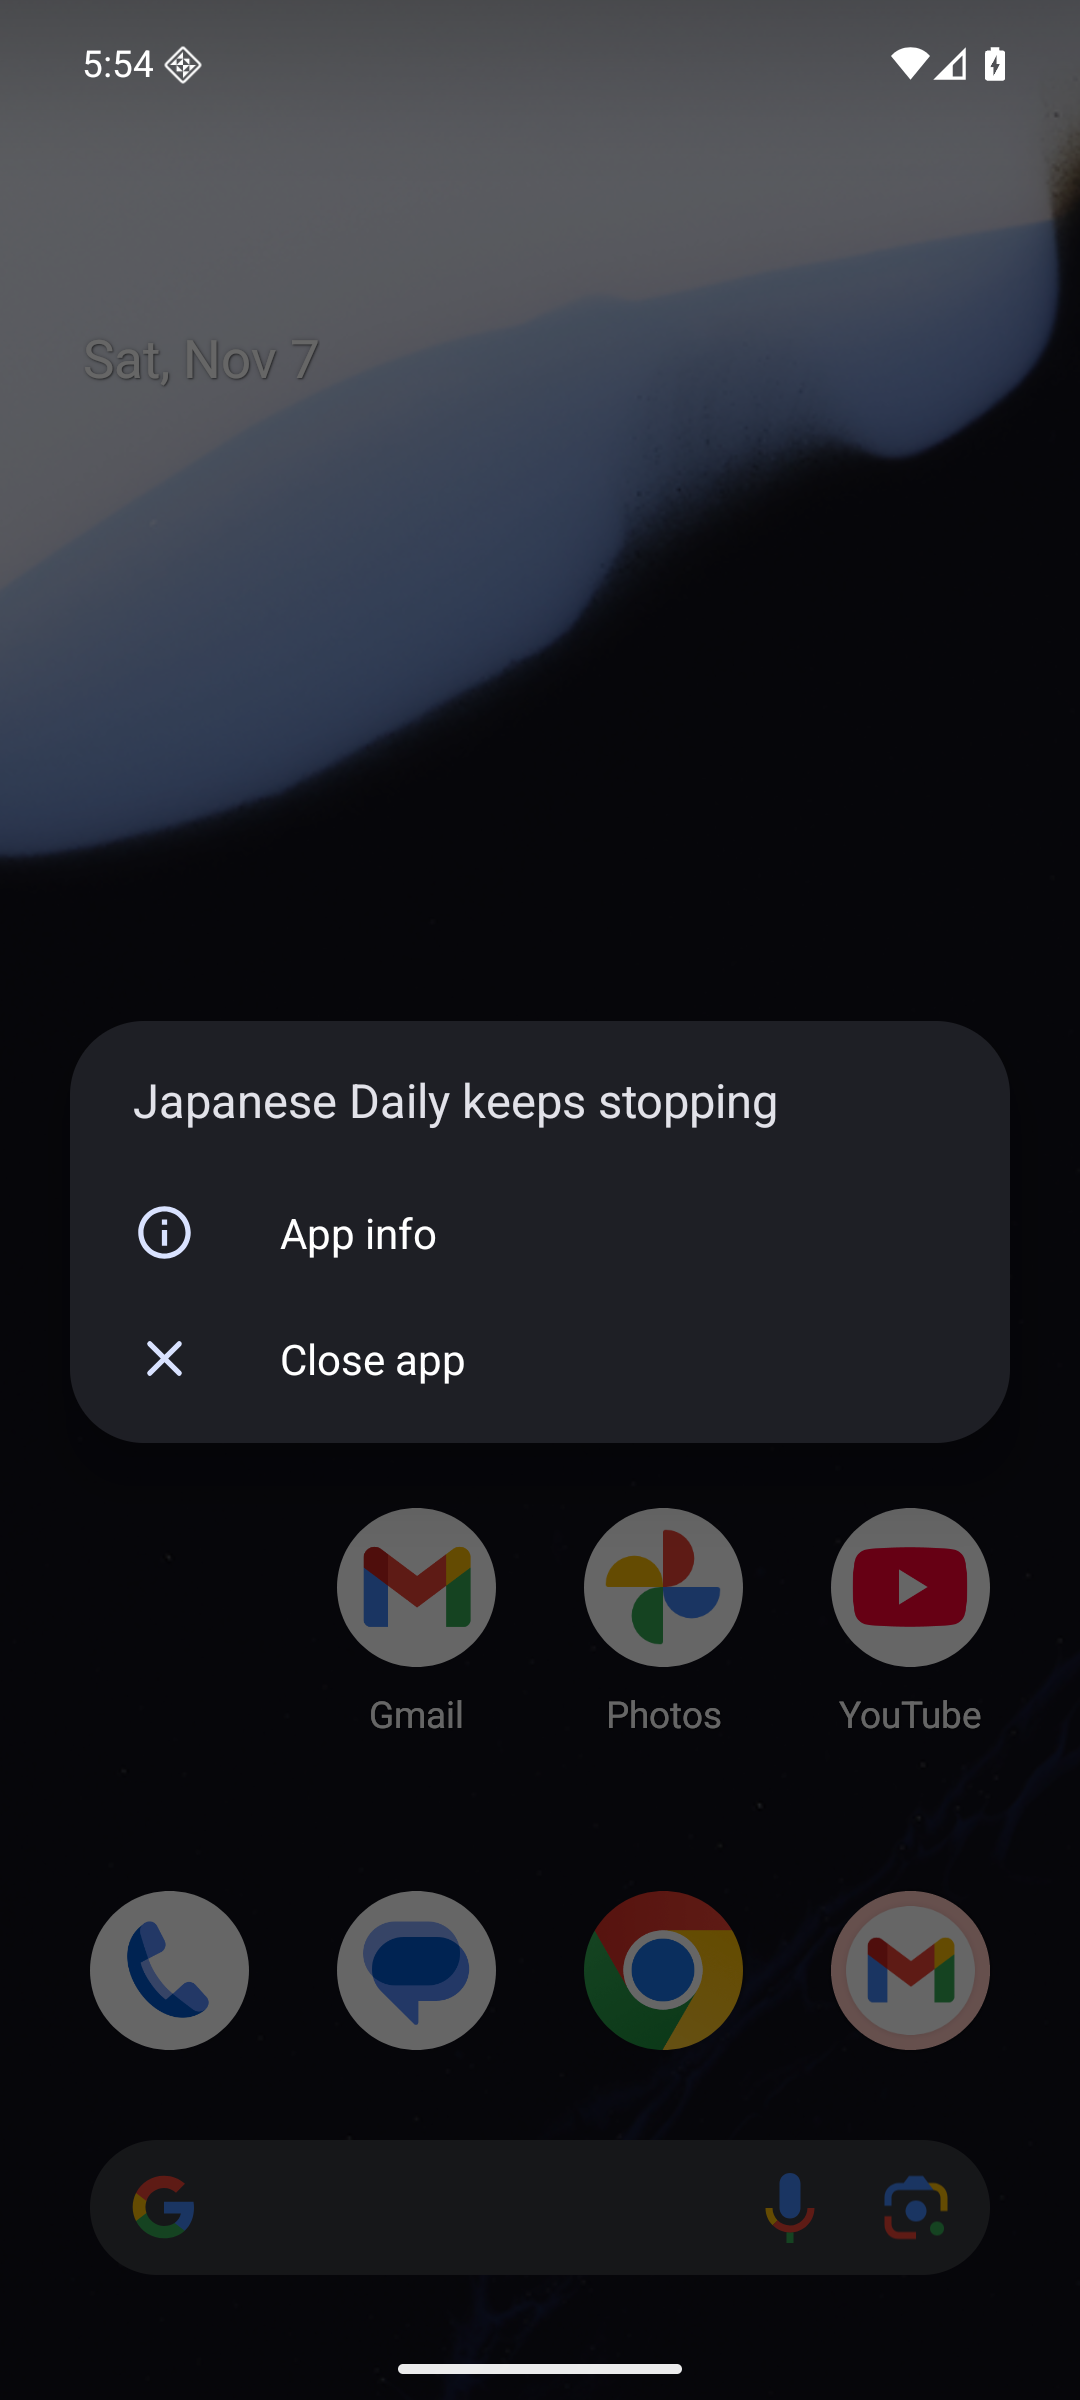
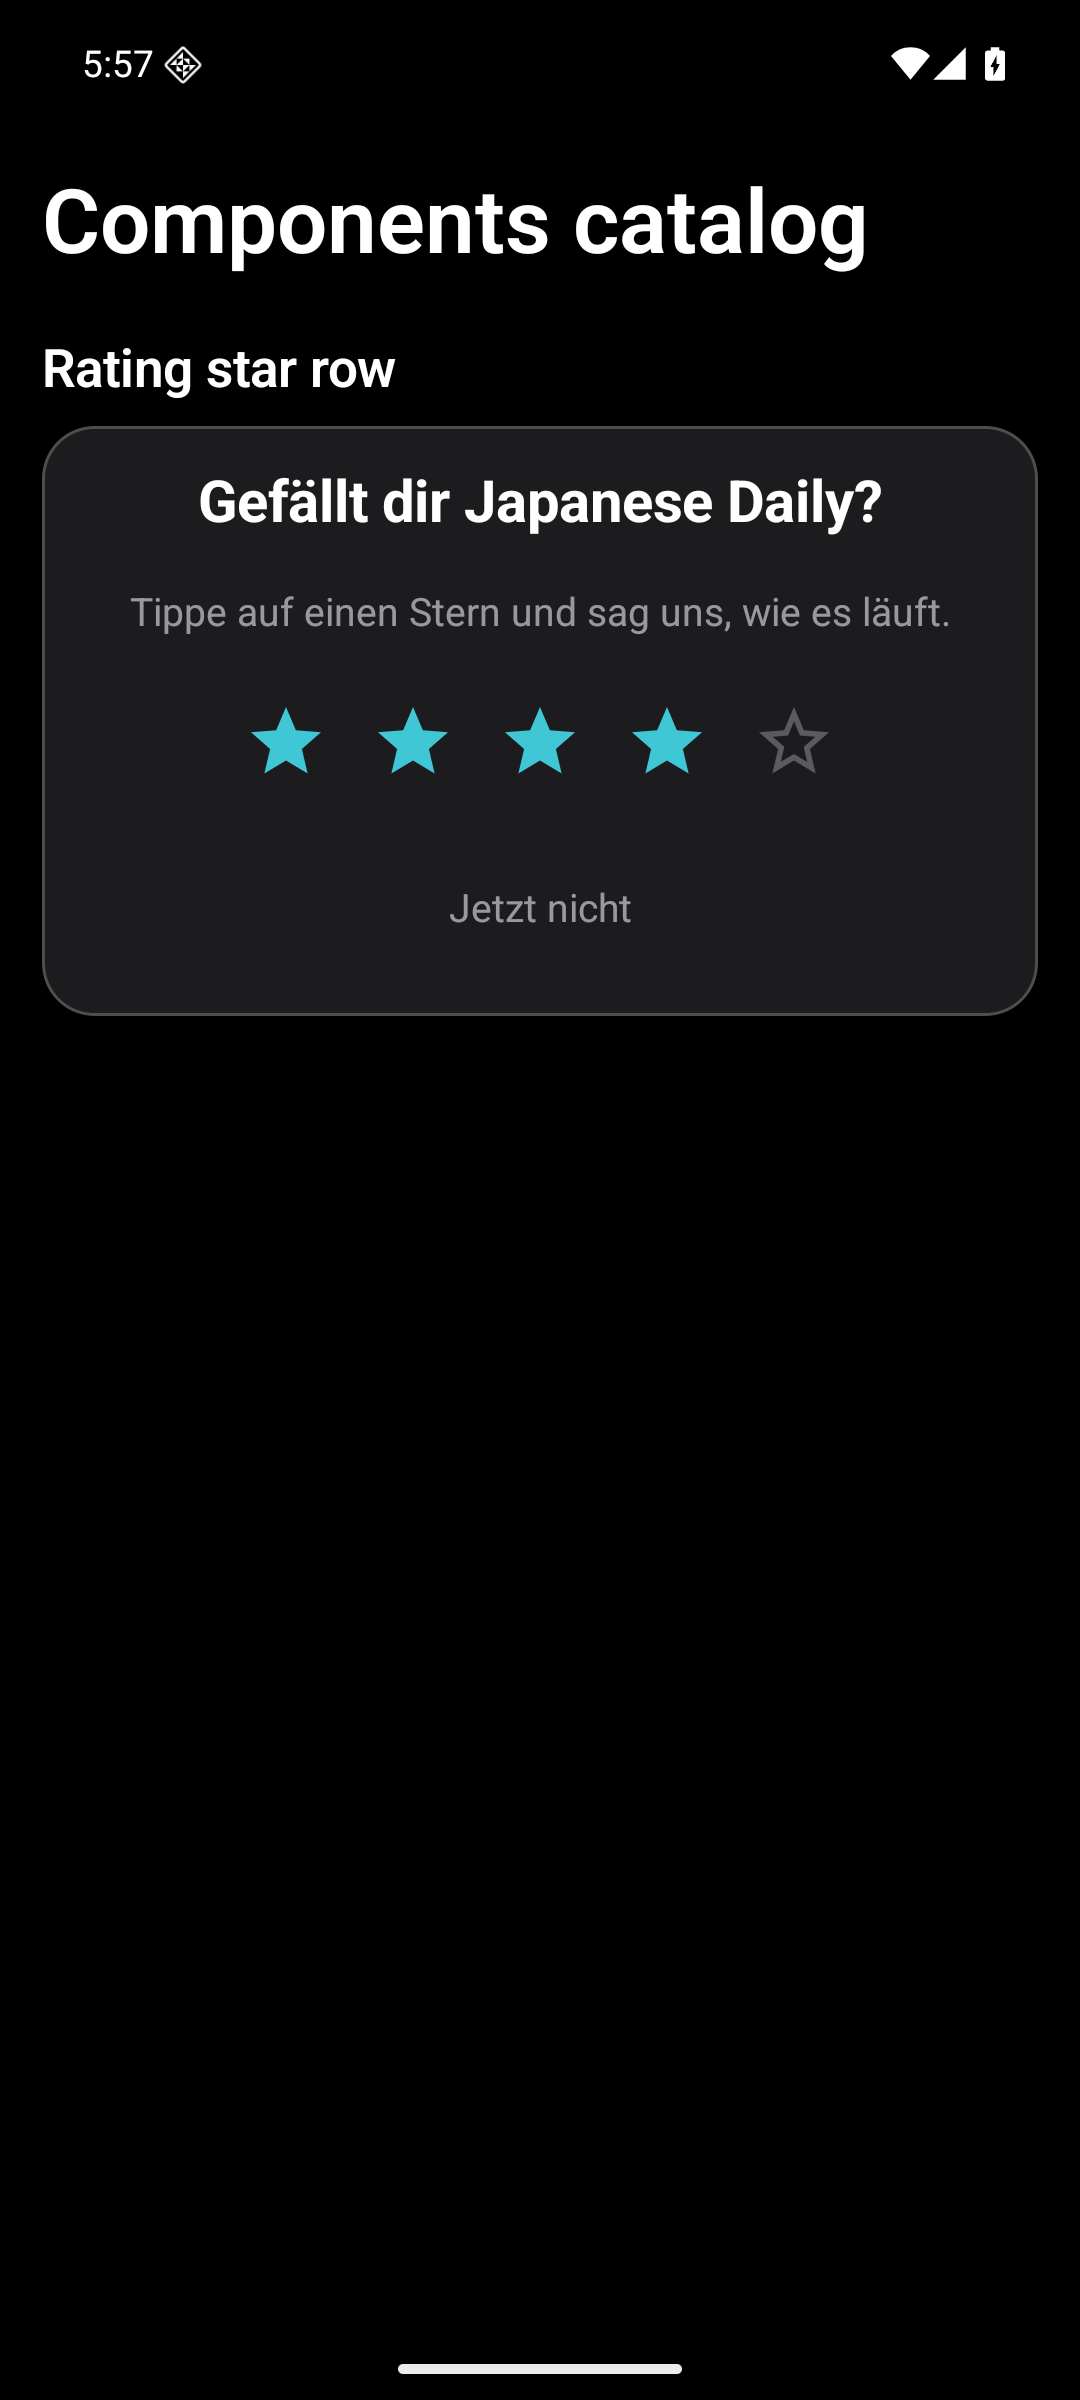
docs: android settings, reminder and rating notes; rating row catalog fix (FOX-159)

diff --git a/android/app/src/main/kotlin/com/kfpun/japanesedaily/rating/RatingHost.kt b/android/app/src/main/kotlin/com/kfpun/japanesedaily/rating/RatingHost.kt
@@ -131,11 +131,11 @@ private const val PICK_BEAT_MILLIS = 350L
  * chosen here rather than in Play's sheet.
  */
 @Composable
-internal fun RatingRow(picked: Int, onStar: (Int) -> Unit, onNotNow: () -> Unit) {
+internal fun RatingRow(picked: Int, onStar: (Int) -> Unit, onNotNow: () -> Unit, scrollable: Boolean = true) {
     Column(
         Modifier
             .fillMaxWidth()
-            .verticalScroll(rememberScrollState())
+            .let { if (scrollable) it.verticalScroll(rememberScrollState()) else it }
             .navigationBarsPadding()
             .padding(horizontal = 28.dp, vertical = 16.dp),
         horizontalAlignment = Alignment.CenterHorizontally,

diff --git a/android/app/src/debug/kotlin/com/kfpun/japanesedaily/catalog/CatalogActivity.kt b/android/app/src/debug/kotlin/com/kfpun/japanesedaily/catalog/CatalogActivity.kt
@@ -322,6 +322,6 @@ private fun TabBar() = Section("Tab bar with a banner slot") {
 @Composable
 private fun RatingStarRow() = Section("Rating star row") {
     Column(Modifier.fillMaxWidth().cardChrome(Theme.Radius.deck)) {
-        com.kfpun.japanesedaily.rating.RatingRow(picked = 4, onStar = {}, onNotNow = {})
+        com.kfpun.japanesedaily.rating.RatingRow(picked = 4, onStar = {}, onNotNow = {}, scrollable = false)
     }
 }

diff --git a/android/CLAUDE.md b/android/CLAUDE.md
@@ -255,3 +255,31 @@ from the app's own strings, never from Play titles; Play only supplies the price
 `adb shell am start -n com.kfpun.japanesedaily/.MainActivity --ez demo_billing true --es open_paywall settings`
 sells five made-up plans from `DemoBillingGateway` (in memory, every purchase succeeds, gone on
 the next launch) and opens the paywall. Both extras are ignored by release builds.
+
+## Settings, reminder, feedback and rating (`settings/`, `feedback/`, `rating/`, FOX-159)
+
+Port of `SettingsView`, `StreakReminder`, `NotificationOptIn`, `Feedback/` and `RatingPrompt`. `SettingsTab` is the Settings
+tab (Licenses is pushed over it with Back, Feedback is a full-screen dialog). Rows: Premium (the `LocalPremium` and
+`LocalOpenPaywall` seams, `container.pro.restore()`, Play's subscription centre, hidden for lifetime), app language
+(`AppLocale.set`), vocabulary language (`Prefs.setTranslationLanguage`), appearance and text size, reminder, feedback, Rate the
+app (Play page, always reachable), Privacy options (only when `AdConsent.privacyOptionsRequired`), Privacy policy / Terms
+(`kf-nihongo.web.app`), Licenses (VOICEVOX credits and both font licences from assets) and the version footer: seven taps
+toggle the analytics opt-out, a long press calls `IntroLauncher.replay()`.
+
+- **Appearance and text size are SharedPreferences, not DataStore** (`settings` file, like `AppLocale`): they must be applied
+  in `Application.onCreate` before any activity. Appearance is `AppCompatDelegate.setDefaultNightMode`; text size is a
+  multiplier (85/100/115/130%) on the phone's font scale through `ProvideTextScale`, and is folded into the survey's `text_size`.
+- **Reminder = one pending inexact alarm** (`setAndAllowWhileIdle`, no exact-alarm permission). `StreakReminder.nextFire` is
+  pure (today if still ahead and not studied, else tomorrow, at the hour in the user's zone); `StreakReminderEngine` plans on
+  every launch, first answer of a day, boot, update, clock and time-zone change (`RescheduleReceiver`) and re-checks at fire
+  time (`ReminderReceiver`: toggle, permission, studied today). A seven-day horizon (`Pref.reminderRemaining`) is refilled by a
+  launch or an answer, not by a reboot. Text goes through `AppLocale.localizedContext`; no streak number is baked in.
+- **The permission is only ever asked from an explicit opt-in** (`rememberReminderOptIn`: the Settings toggle and the intro's
+  "Remind me"); a refusal leaves the toggle off and the footer links to the system notification page. `NotificationOptIn`
+  holds the 60-day soft-ask policy and the streak-7 milestone rule for the Today ticket to call.
+- **Rating:** `container.rating.onRungPassed(totalPassed)` is the hook the ladder calls after a *passed* rung. After 21 passed
+  rungs and at most every 60 days (stamped when shown) `RatingHost` shows the star row; every tap writes a
+  `japanese_survey_rating` row, then 4-5 stars go to Play In-App Review and 1-3 to the feedback screen with the stars
+  attached. "Not now" leads nowhere. Not a rating gate: Settings -> Rate the app is always there.
+- **Feedback** drops iOS's `watch` area (no Wear OS). `FeedbackDraft` is the testable model; `AppContainer.surveyContext` builds
+  the shared row context (premium, tier, counts, text size, appearance).
